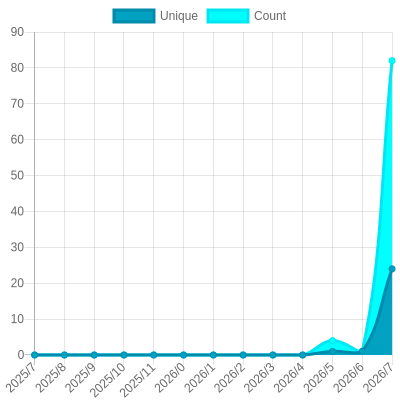
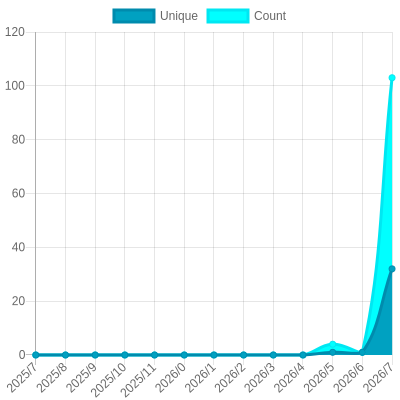
Update views

diff --git a/README.md b/README.md
@@ -26,13 +26,13 @@ The project created and maintained by [gayanvoice](https://github.com/gayanvoice
 			</a>
 		</td>
 		<td>
-			2025/8/13 12:00 AM UTC
+			2025/8/16 2:20 AM UTC
 		</td>
 		<td>
-			25
+			26
 		</td>
 		<td>
-			<img alt="Response time graph" src="https://github.com/ReRokutosei/Rokutosei-views-counter/raw/master/graph/1010491084/small/year.png" height="20"> 36
+			<img alt="Response time graph" src="https://github.com/ReRokutosei/Rokutosei-views-counter/raw/master/graph/1010491084/small/year.png" height="20"> 37
 		</td>
 	</tr>
 	<tr>
@@ -42,13 +42,13 @@ The project created and maintained by [gayanvoice](https://github.com/gayanvoice
 			</a>
 		</td>
 		<td>
-			2025/8/13 12:00 AM UTC
+			2025/8/16 12:00 AM UTC
 		</td>
 		<td>
-			12
+			30
 		</td>
 		<td>
-			<img alt="Response time graph" src="https://github.com/ReRokutosei/Rokutosei-views-counter/raw/master/graph/969156905/small/year.png" height="20"> 22
+			<img alt="Response time graph" src="https://github.com/ReRokutosei/Rokutosei-views-counter/raw/master/graph/969156905/small/year.png" height="20"> 92
 		</td>
 	</tr>
 	<tr>
@@ -58,7 +58,7 @@ The project created and maintained by [gayanvoice](https://github.com/gayanvoice
 			</a>
 		</td>
 		<td>
-			2025/8/13 4:27 AM UTC
+			2025/8/16 2:20 AM UTC
 		</td>
 		<td>
 			10
@@ -74,7 +74,7 @@ The project created and maintained by [gayanvoice](https://github.com/gayanvoice
 			</a>
 		</td>
 		<td>
-			2025/8/13 4:27 AM UTC
+			2025/8/16 2:20 AM UTC
 		</td>
 		<td>
 			4
@@ -85,7 +85,7 @@ The project created and maintained by [gayanvoice](https://github.com/gayanvoice
 	</tr>
 </table>
 
-<small><i>Last updated on 2025/8/15 4:28 AM UTC</i></small>
+<small><i>Last updated on 2025/8/18 2:20 AM UTC</i></small>
 
 ## ✂Copy and 📋 Paste
 ### Total Views Badge

diff --git a/readme/969156905/year.md b/readme/969156905/year.md
@@ -23,10 +23,10 @@
 			<code>2025/8/1</code>
 		</td>
 		<td>
-			<code>24</code>
+			<code>32</code>
 		</td>
 		<td>
-			<code>82</code>
+			<code>103</code>
 		</td>
 	</tr>
 	<tr>
@@ -164,7 +164,7 @@
 </table>
 
 </details>
-<small><i>Last updated on 2025/8/15 4:27 AM UTC</i></small>
+<small><i>Last updated on 2025/8/18 2:20 AM UTC</i></small>
 
 ## ✂Copy and 📋 Paste
 ### SVG Badge

diff --git a/readme/1010491084/year.md b/readme/1010491084/year.md
@@ -164,7 +164,7 @@
 </table>
 
 </details>
-<small><i>Last updated on 2025/8/15 4:27 AM UTC</i></small>
+<small><i>Last updated on 2025/8/18 2:20 AM UTC</i></small>
 
 ## ✂Copy and 📋 Paste
 ### SVG Badge

diff --git a/readme/957512238/year.md b/readme/957512238/year.md
@@ -164,7 +164,7 @@
 </table>
 
 </details>
-<small><i>Last updated on 2025/8/15 4:27 AM UTC</i></small>
+<small><i>Last updated on 2025/8/18 2:20 AM UTC</i></small>
 
 ## ✂Copy and 📋 Paste
 ### SVG Badge

diff --git a/readme/995396585/year.md b/readme/995396585/year.md
@@ -164,7 +164,7 @@
 </table>
 
 </details>
-<small><i>Last updated on 2025/8/15 4:27 AM UTC</i></small>
+<small><i>Last updated on 2025/8/18 2:20 AM UTC</i></small>
 
 ## ✂Copy and 📋 Paste
 ### SVG Badge
